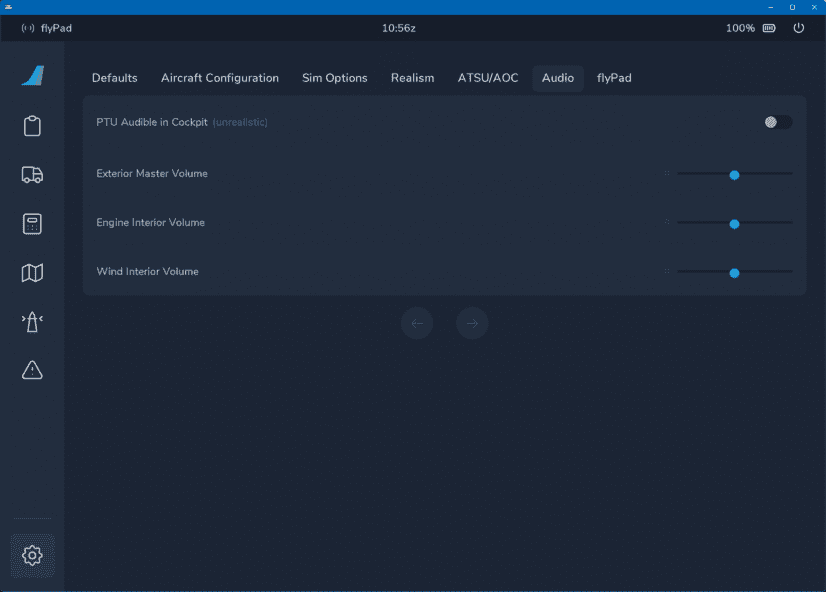
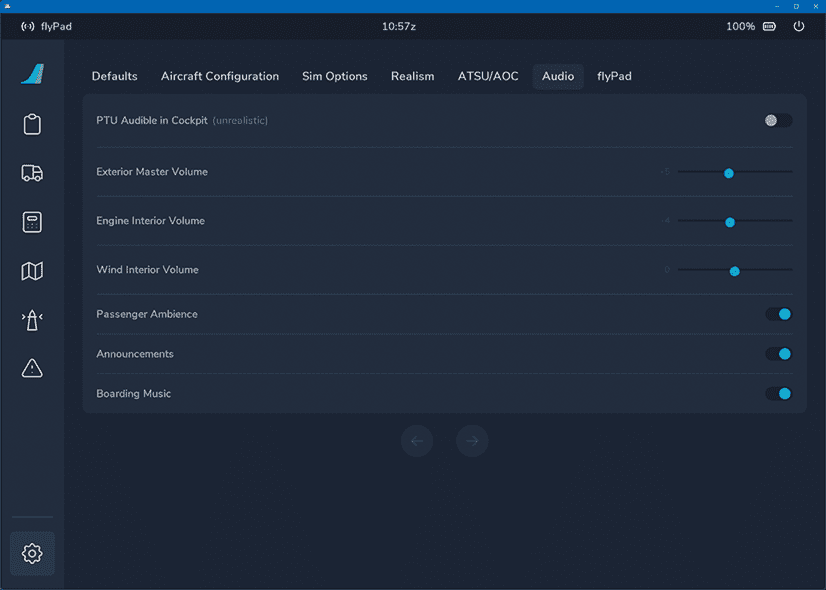
Updated EFB flyPad settings page for Audio

diff --git a/docs/fbw-a32nx/feature-guides/flyPad/settings.md b/docs/fbw-a32nx/feature-guides/flyPad/settings.md
@@ -236,15 +236,38 @@ Settings for various audio sources and sounds.
     <span class="imagesub">Click on the menu icons in this image to see other flyPad pages.</span>
 </div>
 
-
 - PTU Audible in Cockpit (unrealistic):
     - Allows the PTU to be heard in the cockpit which in real life is not the case. But many people are used to this sound as it is very audible in the passenger cabin.
+
 - Exterior Master Volume:
     - Volume for sounds audible when in external views.
+
 - Engine Interiors Sounds:
     - Volume for engine sounds inside the cockpit.
+
 - Wind Interior Volume:
     - Volume for wind sounds inside in cockpit.
+
+- Passenger Ambience
+    - If this setting is enabled the following ambience sounds are played:
+        - Boarding sound begins when the W/B in `MCDU-ATSU-AOC/W&B` boarding is started.
+        - Once passengers are on the plane, a constant passenger ambience sound plays.
+        - Deboarding through the the W/B section in `MCDU-ATSU-AO-W&B` triggers the deboarding sound.
+
+- Announcements
+    - If this setting is enabled the following crew announcements are played:
+        - When boarding is finished, the flight attendant says "boarding completed."
+        - 30 seconds after "boarding completed", the captain makes a "welcome on board" announcement.
+        - Beacon light triggers the FA "arm doors" announcement
+        - 30 seconds after the "arm doors" announcement a safety demo is played.
+        - The cabin ready trigger triggers the "prepare for takeoff announcement." (engines must be running)
+        - 30 seconds after entering **Cruise Phase** the captain makes a cruise announcement.
+        - 30 seconds after entering **Descent Phase** the captain makes a descent announcement.
+        - Cabin ready and being in **Approach Phase** phase activates the prepare for landing announcement.
+        - Being in the **Done Phase** (after landing) and deactivating beacon light triggers the disarm doors announcement.
+
+- Boarding Music
+    - If enabled music will be playing during boarding.
 
 ## flyPad Settings
 
